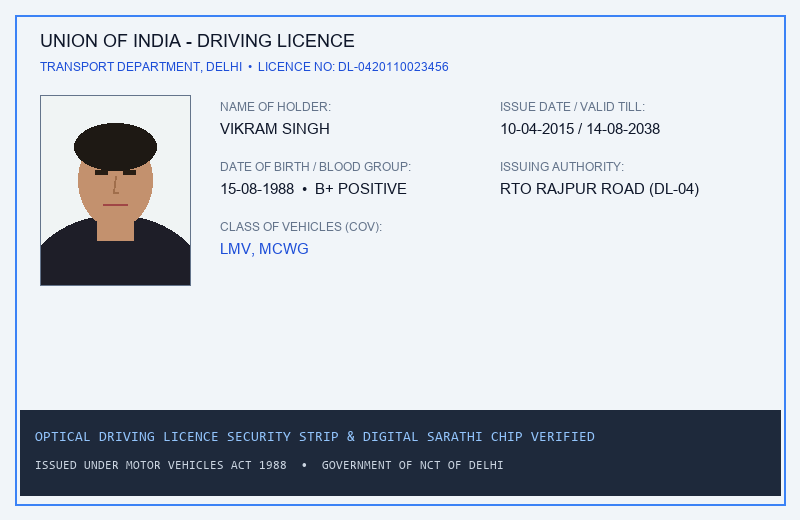
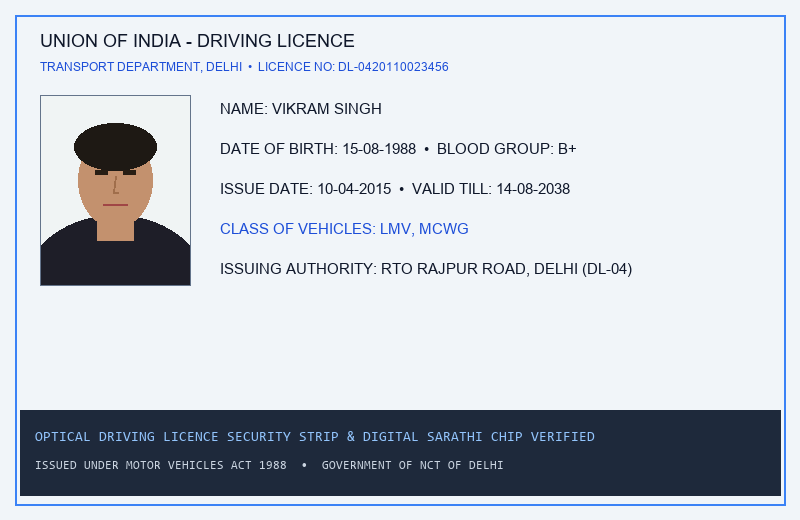
fix: improve contextual DOB extraction for Driving Licence and regenerate sample asset

Changed region(s): [[0.2812, 0.1846, 0.875, 0.4], [0.2812, 0.4308, 0.7812, 0.5231]]

diff --git a/ai-service/app/services/ocr_engine.py b/ai-service/app/services/ocr_engine.py
@@ -951,6 +951,17 @@ class GenericNationalIDAdapter:
             if norm:
                 return norm, 0.92
 
+        # Check within 120 chars of DOB keyword even across multiline / column shifts
+        m_nearby = re.search(
+            r"(?:DOB|DATE\s*OF\s*BIRTH|YEAR\s*OF\s*BIRTH|BIRTH\s*YEAR|YOB)[\s\S]{0,120}?(\d{1,4}[-/,\s]\d{1,2}[-/,\s]\d{2,4})",
+            upper,
+        )
+        if m_nearby:
+            raw_d = m_nearby.group(1).replace(",", "/").replace(" ", "-")
+            norm = _normalize_date(raw_d)
+            if norm:
+                return norm, 0.90
+
         for l in lines:
             if re.search(r"\b(DOB|BIRTH|YOB|NAISSANCE|GEBURTSDATUM)\b", l, re.I):
                 d_m = re.search(r"\b(\d{1,2}[-/]\d{1,2}[-/]\d{2,4}|\b\d{4}\b)\b", l)
@@ -963,7 +974,7 @@ class GenericNationalIDAdapter:
             d_m = re.search(r"\b(\d{1,2}[-/]\d{1,2}[-/]\d{2,4})\b", l)
             if d_m:
                 norm = _normalize_date(d_m.group(1))
-                if norm and not norm.startswith("202"):
+                if norm and not norm.startswith("202") and not norm.startswith("201"):
                     return norm, 0.82
 
         return "", 0.0
@@ -1476,20 +1487,22 @@ def extract_dl_fields(
                 holder_name = c_name
 
     # 4. Date of Birth
-    if fields and fields.get("dateOfBirth"):
+    m_dob = re.search(r"(?:DOB|DATE\s*OF\s*BIRTH|D\.O\.B|BIRTH\s*DATE)[\s\S]{0,120}?(\d{1,4}[-/]\d{1,2}[-/]\d{2,4})", text_upper)
+    if m_dob:
+        c_dob = _normalize_date(m_dob.group(1))
+        if c_dob:
+            dob = c_dob
+    if not dob and fields and fields.get("dateOfBirth"):
         dob = fields["dateOfBirth"]
-    else:
-        m_dob = re.search(r"(?:DOB|DATE\s*OF\s*BIRTH|D\.O\.B|BIRTH\s*DATE)\s*[:\s|-]*\s*(\d{1,4}[-/]\d{1,2}[-/]\d{2,4})", text_upper)
-        if m_dob:
-            dob = _normalize_date(m_dob.group(1))
 
     # 5. Issue Date
-    if fields and fields.get("issueDate"):
+    m_iss = re.search(r"(?:ISSUE\s*DATE|DATE\s*OF\s*ISSUE|ISSUE|VALID\s*FROM|ISSUED\s*ON|DOI)[\s\S]{0,80}?(\d{1,4}[-/]\d{1,2}[-/]\d{2,4})", text_upper)
+    if m_iss:
+        c_iss = _normalize_date(m_iss.group(1))
+        if c_iss and c_iss != dob:
+            issue_date = c_iss
+    if not issue_date and fields and fields.get("issueDate"):
         issue_date = fields["issueDate"]
-    else:
-        m_iss = re.search(r"(?:ISSUE\s*DATE|DATE\s*OF\s*ISSUE|ISSUE|VALID\s*FROM|ISSUED\s*ON|DOI)\s*[:\s|-]*\s*(\d{1,4}[-/]\d{1,2}[-/]\d{2,4})", text_upper)
-        if m_iss:
-            issue_date = _normalize_date(m_iss.group(1))
 
     # 6. Expiry / Validity Date (CRITICAL REGRESSION REQUIREMENT)
     # Expiry MUST NOT be filled with issue_date. It stays None if no explicit expiry match is found!

diff --git a/ml/scripts/generate_sample_inputs.py b/ml/scripts/generate_sample_inputs.py
@@ -168,17 +168,11 @@ def main():
     dl_img.paste(dl_portrait, (40, 95))
     dl_draw.rectangle([40, 95, 190, 285], outline=(100, 116, 139), width=1)
     
-    dl_draw.text((220, 100), "NAME OF HOLDER:", fill=(100, 116, 139), font=dl_font_lbl)
-    dl_draw.text((220, 120), "VIKRAM SINGH", fill=(15, 23, 42), font=dl_font_val)
-    dl_draw.text((220, 160), "DATE OF BIRTH / BLOOD GROUP:", fill=(100, 116, 139), font=dl_font_lbl)
-    dl_draw.text((220, 180), "15-08-1988  •  B+ POSITIVE", fill=(15, 23, 42), font=dl_font_val)
-    dl_draw.text((220, 220), "CLASS OF VEHICLES (COV):", fill=(100, 116, 139), font=dl_font_lbl)
-    dl_draw.text((220, 240), "LMV, MCWG", fill=(29, 78, 216), font=dl_font_val)
-    
-    dl_draw.text((500, 100), "ISSUE DATE / VALID TILL:", fill=(100, 116, 139), font=dl_font_lbl)
-    dl_draw.text((500, 120), "10-04-2015 / 14-08-2038", fill=(15, 23, 42), font=dl_font_val)
-    dl_draw.text((500, 160), "ISSUING AUTHORITY:", fill=(100, 116, 139), font=dl_font_lbl)
-    dl_draw.text((500, 180), "RTO RAJPUR ROAD (DL-04)", fill=(15, 23, 42), font=dl_font_val)
+    dl_draw.text((220, 100), "NAME: VIKRAM SINGH", fill=(15, 23, 42), font=dl_font_val)
+    dl_draw.text((220, 140), "DATE OF BIRTH: 15-08-1988  •  BLOOD GROUP: B+", fill=(15, 23, 42), font=dl_font_val)
+    dl_draw.text((220, 180), "ISSUE DATE: 10-04-2015  •  VALID TILL: 14-08-2038", fill=(15, 23, 42), font=dl_font_val)
+    dl_draw.text((220, 220), "CLASS OF VEHICLES: LMV, MCWG", fill=(29, 78, 216), font=dl_font_val)
+    dl_draw.text((220, 260), "ISSUING AUTHORITY: RTO RAJPUR ROAD, DELHI (DL-04)", fill=(15, 23, 42), font=dl_font_val)
     
     dl_draw.rectangle([20, 410, 780, 495], fill=(30, 41, 59))
     dl_draw.text((35, 430), "OPTICAL DRIVING LICENCE SECURITY STRIP & DIGITAL SARATHI CHIP VERIFIED", fill=(147, 197, 253), font=_get_font(14, mono=True))
